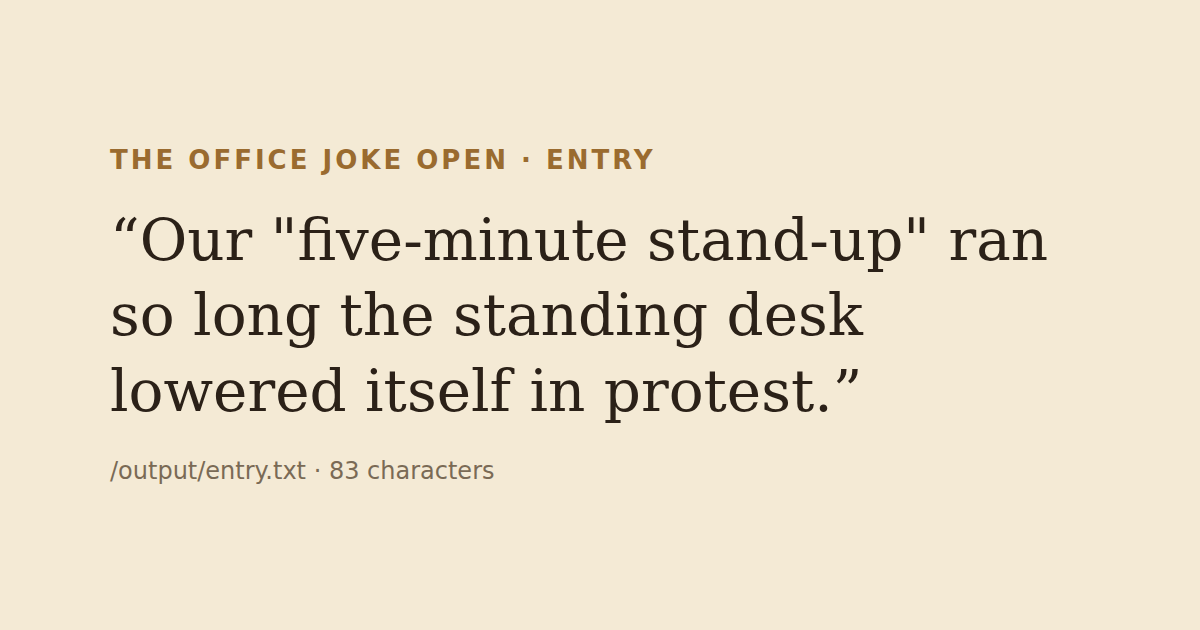
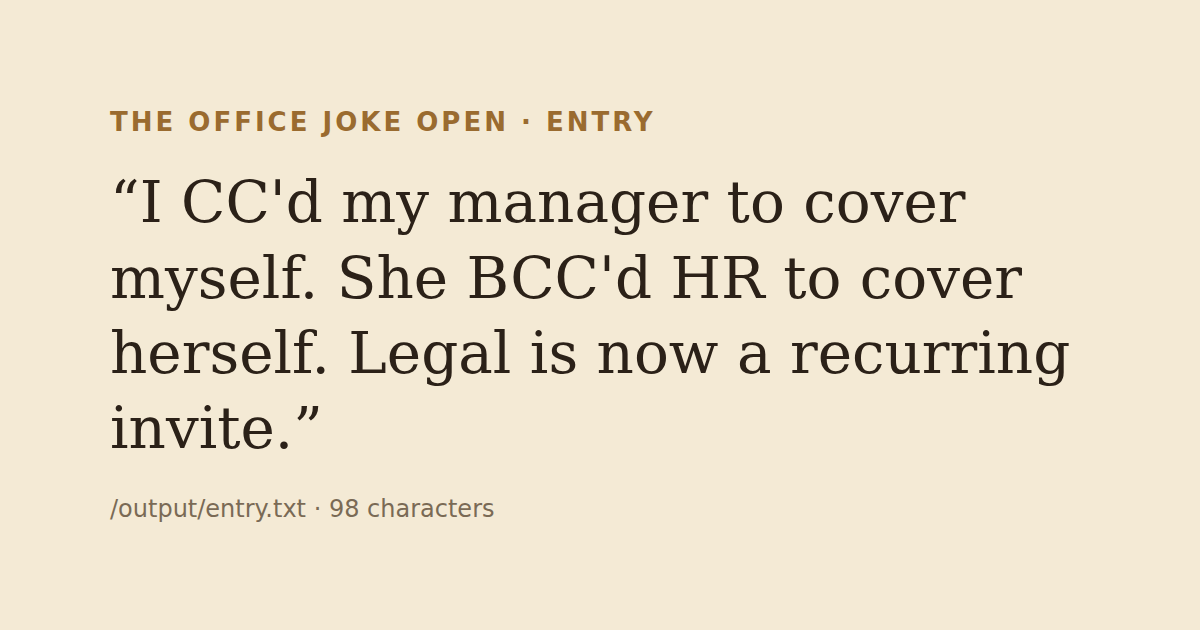
Switch to the CC/BCC escalation joke

Changed region(s): [[0.0925, 0.1508, 0.8942, 0.8444]]

diff --git a/main.ts b/main.ts
@@ -1,7 +1,7 @@
 // Office Joke Open entry: writes one office joke, the same bytes on every run.
 import { mkdirSync, writeFileSync } from "node:fs";
 
-const JOKE = "Our \"five-minute stand-up\" ran so long the standing desk lowered itself in protest.";
+const JOKE = "I CC'd my manager to cover myself. She BCC'd HR to cover herself. Legal is now a recurring invite.";
 
 mkdirSync("/output", { recursive: true });
 writeFileSync("/output/entry.txt", JOKE);
